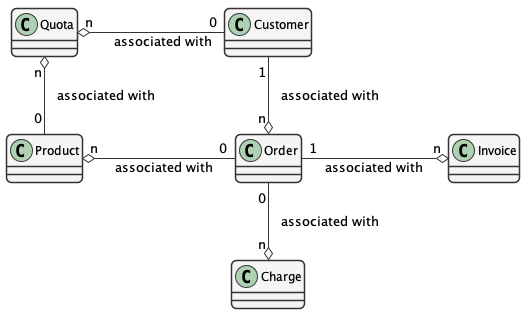
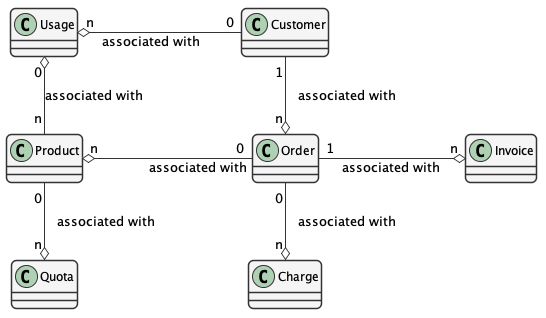
Add the usage object

diff --git a/membership-plan-management.rst b/membership-plan-management.rst
@@ -24,6 +24,8 @@ The following diagram shows the membership and payment records stored by DataONE
     }
     class Customer {
     }
+    class Usage {
+    }
     class Order {
     }
     class Invoice {
@@ -37,9 +39,9 @@ The following diagram shows the membership and payment records stored by DataONE
     Order "0" -right-o "n" Product : "associated with"
     Order "0" -up-o "n" Charge : "   associated with"
     Order "1" -left-o "n" Invoice : "   associated with"
-    Customer "0"-right-o "n" Quota : "   associated with"
-    Product "0"-down-o "n" Quota : "   associated with"
-    
+    Product "0" -up-o "n" Quota : "   associated with"
+    Customer "0" -right-o "n" Usage : "associated with       "
+    Product "n" -down-o "0" Usage : "associated with"
     @enduml
     
 .. image:: images/overview.png
